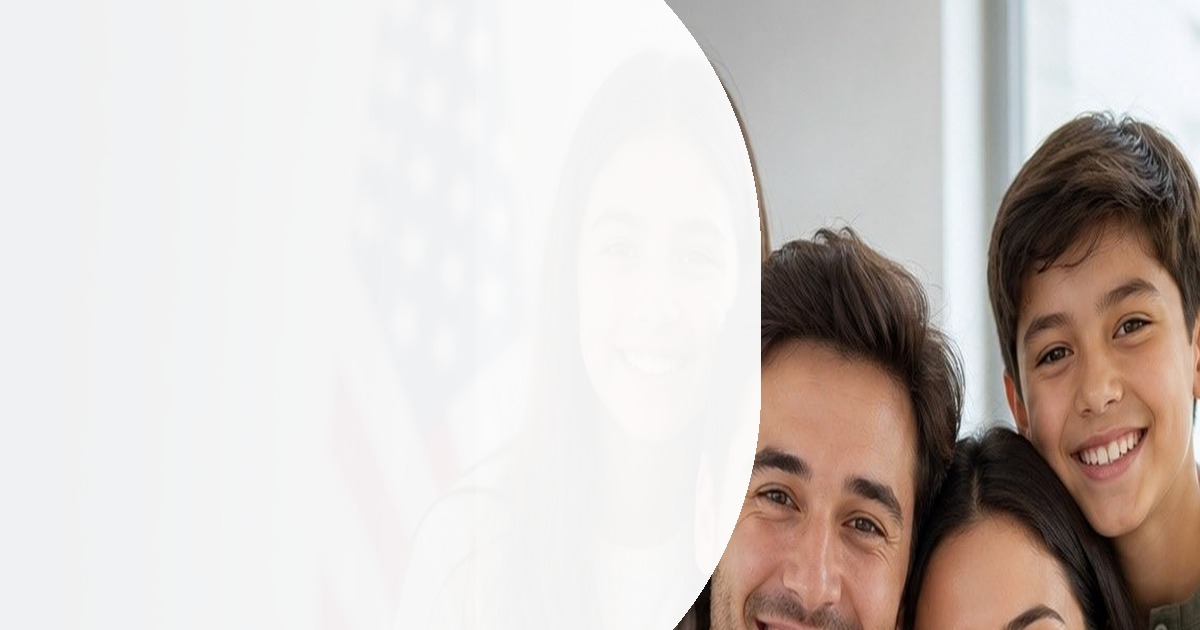
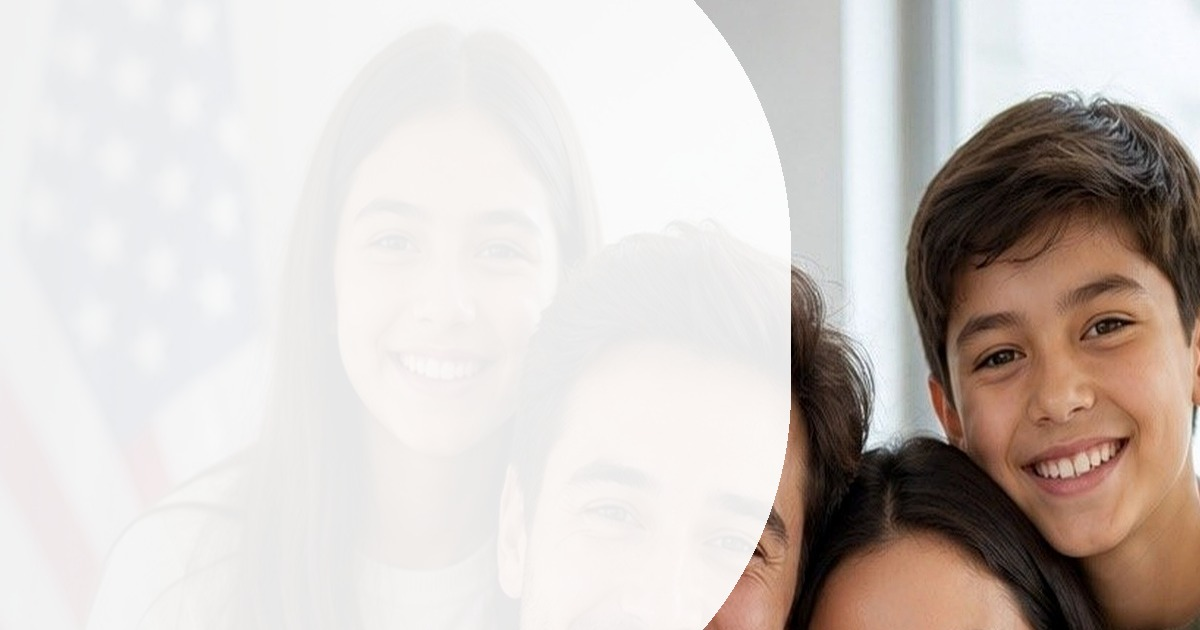
Fix hero carousel image crops

Changed region(s): [[0.555, 0.0, 1.0, 1.0], [0.9867, 0.0302, 1.0, 0.0603]]

diff --git a/index.html b/index.html
@@ -62,7 +62,7 @@
       href="assets/images/hero/green-card-family.jpg"
       as="image"
     />
-    <link rel="stylesheet" href="assets/styles.css?v=20260714-clean-hero" />
+    <link rel="stylesheet" href="assets/styles.css?v=20260714-safe-hero" />
   </head>
   <body>
     <header class="site-header">
@@ -140,19 +140,19 @@
           <div
             class="hero-photo-slide is-first"
             style="
-              background-image: url(&quot;assets/images/hero/green-card-family.jpg?v=20260714-clean&quot;);
+              background-image: url(&quot;assets/images/hero/green-card-family.jpg?v=20260714-safe&quot;);
             "
           ></div>
           <div
             class="hero-photo-slide is-second"
             style="
-              background-image: url(&quot;assets/images/hero/green-card-couple.jpg?v=20260714-clean&quot;);
+              background-image: url(&quot;assets/images/hero/green-card-couple.jpg?v=20260714-safe&quot;);
             "
           ></div>
           <div
             class="hero-photo-slide is-third"
             style="
-              background-image: url(&quot;assets/images/hero/green-card-collage.jpg?v=20260714-clean&quot;);
+              background-image: url(&quot;assets/images/hero/green-card-collage.jpg?v=20260714-safe&quot;);
             "
           ></div>
         </div>

diff --git a/assets/styles.css b/assets/styles.css
@@ -2765,22 +2765,22 @@ small {
   }
 
   .hero-photo-slide.is-first {
-    background-image: url("images/hero/green-card-family-mobile.jpg?v=20260714-clean") !important;
-    background-position: 58% 8%;
+    background-image: url("images/hero/green-card-family.jpg?v=20260714-safe") !important;
+    background-position: 58% 18%;
     background-size: cover;
     transform: scale(1.02);
   }
 
   .hero-photo-slide.is-second {
-    background-image: url("images/hero/green-card-couple-mobile.jpg?v=20260714-clean") !important;
-    background-position: 58% 8%;
+    background-image: url("images/hero/green-card-couple.jpg?v=20260714-safe") !important;
+    background-position: 54% 18%;
     background-size: cover;
     transform: scale(1.02);
   }
 
   .hero-photo-slide.is-third {
-    background-image: url("images/hero/green-card-couple-mobile.jpg?v=20260714-clean") !important;
-    background-position: 58% 8%;
+    background-image: url("images/hero/green-card-collage.jpg?v=20260714-safe") !important;
+    background-position: 58% 18%;
     background-size: cover;
     transform: scale(1.02);
   }

diff --git a/requirements.html b/requirements.html
@@ -66,7 +66,7 @@
 
     <title>Application Requirements | Green Card Services</title>
     <link rel="icon" href="assets/favicon.svg" type="image/svg+xml" />
-    <link rel="stylesheet" href="assets/styles.css?v=20260714-clean-hero" />
+    <link rel="stylesheet" href="assets/styles.css?v=20260714-safe-hero" />
   </head>
   <body class="requirements-page">
     <header class="site-header">

diff --git a/married-couples.html b/married-couples.html
@@ -58,7 +58,7 @@
 
     <title>Green Card Lottery for Married Couples | Green Card Services</title>
     <link rel="icon" href="assets/favicon.svg" type="image/svg+xml" />
-    <link rel="stylesheet" href="assets/styles.css?v=20260714-clean-hero" />
+    <link rel="stylesheet" href="assets/styles.css?v=20260714-safe-hero" />
   </head>
   <body>
     <header class="site-header">

diff --git a/living-in-usa.html b/living-in-usa.html
@@ -58,7 +58,7 @@
 
     <title>DV Lottery While Living in the U.S. | Green Card Services</title>
     <link rel="icon" href="assets/favicon.svg" type="image/svg+xml" />
-    <link rel="stylesheet" href="assets/styles.css?v=20260714-clean-hero" />
+    <link rel="stylesheet" href="assets/styles.css?v=20260714-safe-hero" />
   </head>
   <body>
     <header class="site-header">

diff --git a/green-card-lottery-kazakhstan.html b/green-card-lottery-kazakhstan.html
@@ -58,7 +58,7 @@
 
     <title>Green Card Lottery for Kazakhstan | Green Card Services</title>
     <link rel="icon" href="assets/favicon.svg" type="image/svg+xml" />
-    <link rel="stylesheet" href="assets/styles.css?v=20260714-clean-hero" />
+    <link rel="stylesheet" href="assets/styles.css?v=20260714-safe-hero" />
   </head>
   <body>
     <header class="site-header">

diff --git a/green-card-lottery-kyrgyzstan.html b/green-card-lottery-kyrgyzstan.html
@@ -58,7 +58,7 @@
 
     <title>Green Card Lottery for Kyrgyzstan | Green Card Services</title>
     <link rel="icon" href="assets/favicon.svg" type="image/svg+xml" />
-    <link rel="stylesheet" href="assets/styles.css?v=20260714-clean-hero" />
+    <link rel="stylesheet" href="assets/styles.css?v=20260714-safe-hero" />
   </head>
   <body>
     <header class="site-header">

diff --git a/green-card-lottery-tajikistan.html b/green-card-lottery-tajikistan.html
@@ -58,7 +58,7 @@
 
     <title>Green Card Lottery for Tajikistan | Green Card Services</title>
     <link rel="icon" href="assets/favicon.svg" type="image/svg+xml" />
-    <link rel="stylesheet" href="assets/styles.css?v=20260714-clean-hero" />
+    <link rel="stylesheet" href="assets/styles.css?v=20260714-safe-hero" />
   </head>
   <body>
     <header class="site-header">

diff --git a/green-card-lottery-uzbekistan.html b/green-card-lottery-uzbekistan.html
@@ -58,7 +58,7 @@
 
     <title>Green Card Lottery for Uzbekistan | Green Card Services</title>
     <link rel="icon" href="assets/favicon.svg" type="image/svg+xml" />
-    <link rel="stylesheet" href="assets/styles.css?v=20260714-clean-hero" />
+    <link rel="stylesheet" href="assets/styles.css?v=20260714-safe-hero" />
   </head>
   <body>
     <header class="site-header">

diff --git a/eligible-countries.html b/eligible-countries.html
@@ -58,7 +58,7 @@
 
     <title>DV Lottery Eligible Countries | Green Card Services</title>
     <link rel="icon" href="assets/favicon.svg" type="image/svg+xml" />
-    <link rel="stylesheet" href="assets/styles.css?v=20260714-clean-hero" />
+    <link rel="stylesheet" href="assets/styles.css?v=20260714-safe-hero" />
   </head>
   <body>
     <header class="site-header">

diff --git a/guide.html b/guide.html
@@ -66,7 +66,7 @@
 
     <title>DV Lottery Guide | Green Card Application Services</title>
     <link rel="icon" href="assets/favicon.svg" type="image/svg+xml" />
-    <link rel="stylesheet" href="assets/styles.css?v=20260714-clean-hero" />
+    <link rel="stylesheet" href="assets/styles.css?v=20260714-safe-hero" />
   </head>
   <body>
     <header class="site-header">

diff --git a/language-country-support.html b/language-country-support.html
@@ -58,7 +58,7 @@
 
     <title>Language and Country Support | Green Card Services</title>
     <link rel="icon" href="assets/favicon.svg" type="image/svg+xml" />
-    <link rel="stylesheet" href="assets/styles.css?v=20260714-clean-hero" />
+    <link rel="stylesheet" href="assets/styles.css?v=20260714-safe-hero" />
   </head>
   <body>
     <header class="site-header">
